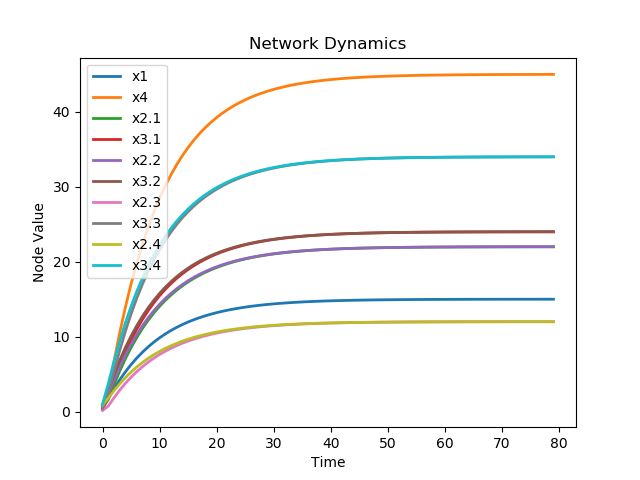
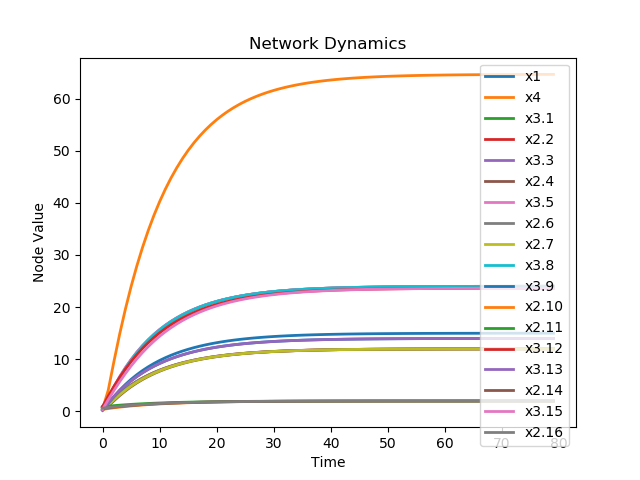
fixed the labeling issue

diff --git a/code/specializer.py b/code/specializer.py
@@ -270,36 +270,40 @@ class DirectedGraph:
         n_nodes = base_size
         links = []
 
+        # we create this diag labeler which will associate an index of the
+        # list diag to a strongly connected component set
+        diag_labeler = {}
+        i = 1
+
         for path in pressed_paths:
             components = [comp[k] for k in path]
             paths = self._path_combinations(components)
-
             comp_to_add = [self.A[[self.indexer[k] for k in c], :][:, [self.indexer[k] for k in c]] for c in components[1:-1]].copy()
+
             for p in paths:
+                for compt in components[1:-1]:
+                    diag_labeler[i] = compt
+                    i += 1
                 diag += comp_to_add
                 links += self._link_adder(p, n_nodes, components)
                 n_nodes += sum(map(len, comp_to_add))
 
 
 
-        # we create this diag labeler which will associate an index of the
-        # list diag to a strongly connected component set, we assume the
-        # matrices in diag are not permuted from that which we find in self.A
-        diag_labeler = {}
-
-        for k in comp:
-            # for each strongly connected component we find where in diag this
-            # compenents exists
-            ind = np.array([self.indexer[i] for i in comp[k]])
-            # if the indices are within the base set we don't consider it
-            if np.all(ind < len(base)): continue
-            # we pull a sub matrix from self.A that corrosponds to the strongly
-            # connected component
-            temp_block = self.A[ind][:,ind]
-            # we check each element of diag to see if it matches the component
-            for i, compt in enumerate(diag):
-                if np.all(compt == temp_block):
-                    diag_labeler[i] = comp[k]
+        # diag_labeler1 = {}
+        # for k in comp:
+        #     # for each strongly connected component we find where in diag this
+        #     # compenents exists
+        #     ind = np.array([self.indexer[i] for i in comp[k]])
+        #     # if the indices are within the base set we don't consider it
+        #     if np.all(ind < len(base)): continue
+        #     # we pull a sub matrix from self.A that corrosponds to the strongly
+        #     # connected component
+        #     temp_block = self.A[ind][:,ind]
+        #     # we check each element of diag to see if it matches the component
+        #     for i, compt in enumerate(diag):
+        #         if np.all(compt == temp_block):
+        #             diag_labeler1[i] = comp[k]
 
         # we update the labeler to correctly label the newly created nodes
         step = base_size

diff --git a/code/workbook.py b/code/workbook.py
@@ -38,22 +38,26 @@ if __name__ == "__main__":
 
     # basic cohen-grossberg neural network
     B = np.array([
-        [0,0,1],
-        [1,0,0],
-        [1,1,0]
+        [0,0,0,1],
+        [1,0,1,0],
+        [1,1,0,0],
+        [0,1,1,0]
     ])
     f = np.array([
-        [zero, zero, sig2],
-        [ sig, zero, zero],
-        [ sig, sig, zero]
+        [ zero, zero, sig, sig],
+        [ sig, zero, sig, zero],
+        [ sig, sig, zero, zero],
+        [ zero, sig, sig, zero]
     ])
-    a = np.array([chaotic_func1, chaotic_func2, chaotic_func3])
-    labels = ['x1', 'x2', 'x3']
+    a = np.array([chaotic_func1, chaotic_func2, chaotic_func3, func1])
+    labels = ['x1', 'x2', 'x3', 'x4']
 
     G = s.DirectedGraph(B, (a,f), labels=labels)
 
-    for i in range(3):
-        base = np.random.choice(G.indices, 2, replace=False)
-        G.specialize(base)
-    print(G.n)
-    G.iterate_with_perturbations(300, np.random.random(G.n), ([150], 10), graph=True, save_img=True, title='../graphs/chaotic cgnn with perturbation')
+    # for i in range(3):
+    base = ['x1','x4']
+    G.specialize(base)
+    G.network_vis()
+    # G.iterate(10, np.random.random(G.n), graph=True)
+    # print(G.n)
+    # G.iterate_with_perturbations(300, np.random.random(G.n), ([150], 10), graph=True, save_img=True, title='../graphs/chaotic cgnn with perturbation')

diff --git a/code/workbook3.py b/code/workbook3.py
@@ -40,14 +40,14 @@ if __name__ == "__main__":
     ])
     a = np.array([f3,f1,f2,f3])
     G = s.DirectedGraph(A, (a,f), labels=labelsA)
-    G.iterate(80, np.random.random(G.n), graph=True, save_img=True, title="../graphs/test_simple")
+    G.iterate(80, np.random.random(G.n), graph=True, save_img=False, title="../graphs/test_simple")
 
     G.specialize(['x1','x4'])
-    G.iterate(80, np.random.random(G.n), graph=True, save_img=True, title="../graphs/test_simple_spec1")
-    print(G.eigen_centrality())
+    G.iterate(80, np.random.random(G.n), graph=True, save_img=False, title="../graphs/test_simple_spec1")
+    # print(G.eigen_centrality())
 
-    for i in range(3):
-        base = np.random.choice(G.indices, 2)
+    for i in range(1):
+        base = np.random.choice(G.indices, int(G.n*0.9), replace=False)
         G.specialize(base)
-    print(G.n)
-    G.iterate_with_perturbations(300, np.random.random(G.n), ([50], 50), graph=True, save_img=True, title='big network with perturbation')
+    # print(G.n)
+    G.iterate_with_perturbations(300, np.random.random(G.n), ([50], 50), graph=True, save_img=False, title='big network with perturbation')

diff --git a/code/workbook2.py b/code/workbook2.py
@@ -43,6 +43,5 @@ if __name__ == "__main__":
     ])
     a = np.array([zero,zero,zero,zero])
     G = s.DirectedGraph(A, (a, f), labels)
-    G.specialize(['x1'])
-
+    G.specialize(['x1'], verbose=True)
     G.network_vis()
